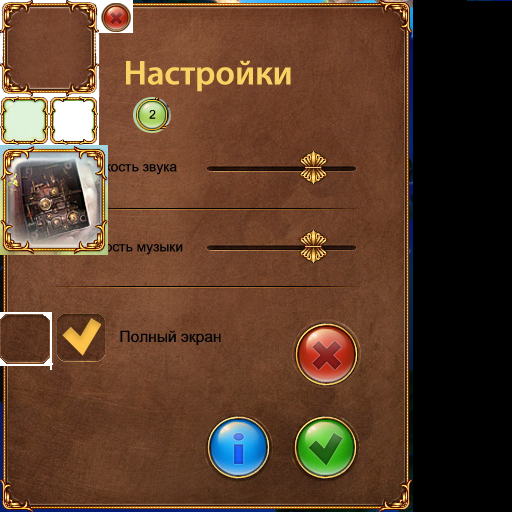
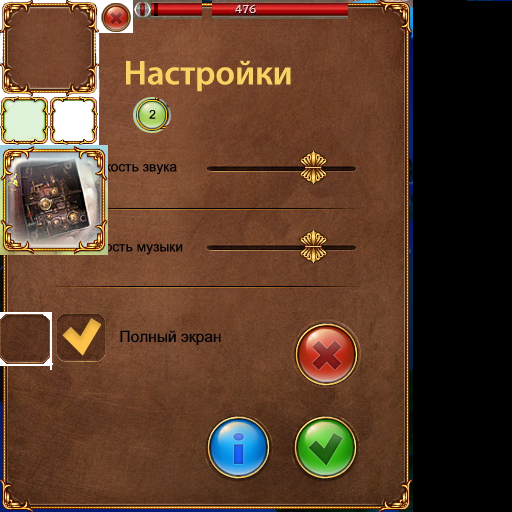
added healthbar gui element

Changed region(s): [[0.25, 0.0, 0.6875, 0.0625]]

diff --git a/src/ui/GameUI.java b/src/ui/GameUI.java
@@ -22,6 +22,7 @@ import ne.ui.NE_GUI_CharEquip;
 import ne.ui.NE_GUI_CharScreen;
 import ne.ui.NE_GUI_Chat;
 import ne.ui.NE_GUI_Craft;
+import ne.ui.NE_GUI_Healthbar;
 import ne.ui.NE_GUI_Inventory;
 import ne.ui.NE_GUI_Popup;
 import ne.ui.NE_GUI_QuickslotBar;
@@ -45,6 +46,8 @@ public class GameUI implements IUserInterface,  IEventListener {
     public static NE_GUI_Craft craft;
     public static NE_GUI_Chat chat_box;
     public static NE_GUI_CharEquip char_equip;
+
+    public static NE_GUI_Healthbar healthbar;
 
 
     public GameUI(){
@@ -122,6 +125,11 @@ public class GameUI implements IUserInterface,  IEventListener {
         char_screen.y = 300;
 
         ui.root.add(char_screen);
+
+        healthbar = new NE_GUI_Healthbar();
+        ui.root.add(healthbar);
+        healthbar.x = WindowRender.get_window_w()/2 - healthbar.w/2;
+        healthbar.y = 5;
 
     }
 

diff --git a/src/game/combat/Combat.java b/src/game/combat/Combat.java
@@ -27,8 +27,14 @@ public abstract class Combat {
     public int get_hp(){
         return hp;
     }
+
     public void set_hp(int hp){
         this.hp = hp;
+        
+        if (this.hp > get_max_hp()){
+            this.hp = get_max_hp();
+        }
+
     }
 
     public int get_max_hp(){

diff --git a/src/ui/MainMenuUI.java b/src/ui/MainMenuUI.java
@@ -22,6 +22,7 @@ import ne.ui.NE_GUI_Chat;
 import ne.ui.NE_GUI_Craft;
 import ne.ui.NE_GUI_Frame;
 import ne.ui.NE_GUI_FrameModern;
+import ne.ui.NE_GUI_Healthbar;
 import ne.ui.NE_GUI_Input;
 import ne.ui.NE_GUI_Label;
 import ne.ui.NE_GUI_SpriteArea;

diff --git a/src/game/combat/BasicCombat.java b/src/game/combat/BasicCombat.java
@@ -43,7 +43,7 @@ public class BasicCombat extends Combat{
 
     @Override
     public int get_max_hp(){
-        return 10;
+        return 50;
     }
 
     @Override
